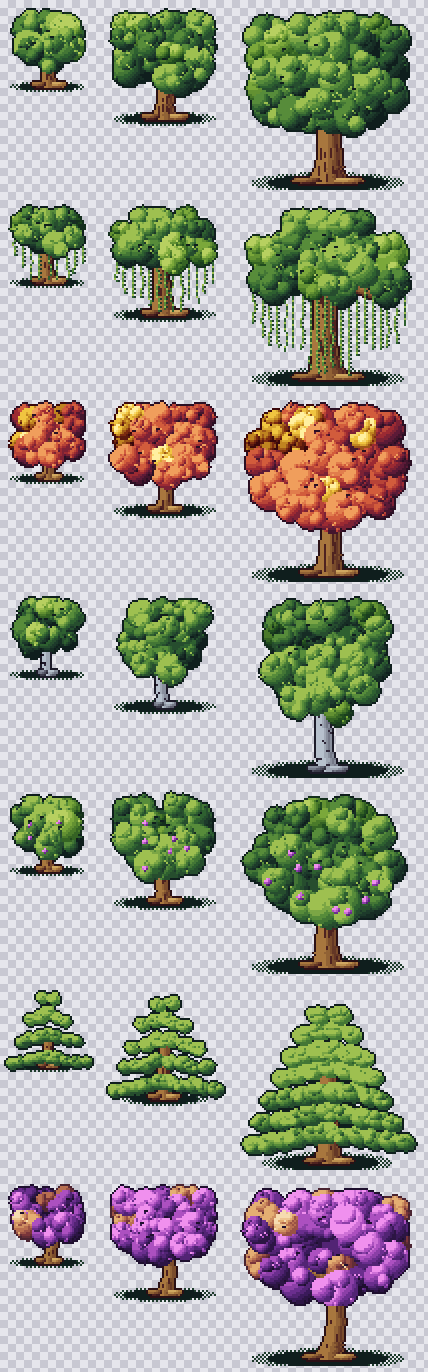
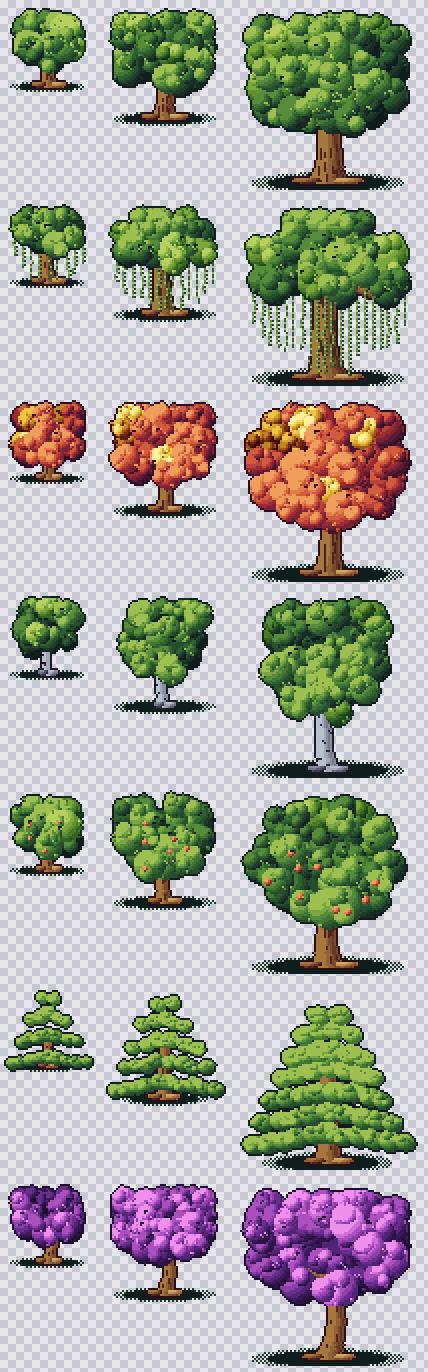
Foliage: pink sakura without orange, red fruit default, bare snowy winter trees

diff --git a/src/core/generators/foliage.ts b/src/core/generators/foliage.ts
@@ -43,18 +43,18 @@ function tint(species: Species, season: Season, leaf: Material): Tint {
   const winter = season === "winter";
   if (species === "pine-hd") return { main: leaf, alt: leaf === "foliage" ? "foliage" : leaf, deep: leaf, sparse: false, snow: winter };
   if (species === "sakura") {
-    if (winter) return { main: "stone", alt: "ui", deep: "wood", sparse: true, snow: true };
+    if (winter) return { main: "ui", alt: "stone", deep: "wood", sparse: true, snow: true };
     if (season === "fall") return { main: "cloth2", alt: "gold", deep: "roof", sparse: false, snow: false };
-    if (season === "spring") return { main: "accent", alt: "skin", deep: "accent", sparse: false, snow: false, specks: { mat: "skin", chance: 0.4 } };
-    return { main: "accent", alt: "skin", deep: "accent", sparse: false, snow: false, specks: { mat: "skin", chance: 0.3 } };
+    if (season === "spring") return { main: "accent", alt: "accent", deep: "accent", sparse: false, snow: false, specks: { mat: "ui", chance: 0.3 } };
+    return { main: "accent", alt: "accent", deep: "accent", sparse: false, snow: false, specks: { mat: "ui", chance: 0.25 } };
   }
   if (species === "maple-autumn") {
-    if (winter) return { main: "stone", alt: "ui", deep: "wood", sparse: true, snow: true };
+    if (winter) return { main: "ui", alt: "stone", deep: "wood", sparse: true, snow: true };
     if (season === "spring") return { main: alt, alt: "gold", deep: leaf, sparse: false, snow: false, specks: { mat: "roof", chance: 0.18 } };
     if (season === "summer") return { main: "cloth2", alt: "gold", deep: "roof", sparse: false, snow: false, specks: { mat: leaf, chance: 0.15 } };
     return { main: "cloth2", alt: "gold", deep: "roof", sparse: false, snow: false, specks: { mat: "roof", chance: 0.2 } };
   }
-  if (winter) return { main: "stone", alt: "ui", deep: "wood", sparse: true, snow: true };
+  if (winter) return { main: "ui", alt: "stone", deep: "wood", sparse: true, snow: true };
   if (season === "fall") return { main: "gold", alt: "cloth2", deep: "roof", sparse: false, snow: false, specks: { mat: "leather", chance: 0.15 } };
   if (season === "spring") return { main: alt, alt: leaf, deep: leaf, sparse: false, snow: false, specks: { mat: species === "birch" ? "gold" : "skin", chance: 0.22 } };
   return { main: leaf, alt, deep: leaf, sparse: false, snow: false };
@@ -149,9 +149,9 @@ function buildModel(species: Species, W: number, sizeIdx: number, season: Season
     const core = { x: fx * W, y: fy * W, rx: frx * W, ry: fry * W };
     model.core = core;
     let n = sp.n[sizeIdx];
-    if (t.sparse) n = Math.max(12, Math.round(n * 0.5));
+    if (t.sparse) n = Math.max(8, Math.round(n * 0.3));
     const area = Math.PI * core.rx * core.ry;
-    const baseR = sp.rK * (t.sparse ? 0.7 : 1) * Math.sqrt(area / (n * Math.PI));
+    const baseR = sp.rK * (t.sparse ? 0.55 : 1) * Math.sqrt(area / (n * Math.PI));
     const pts = scatter(r, n, core);
     const trunkW = Math.max(3, Math.round(sp.trunkW * W));
     model.trunk = { ...model.trunk, w: trunkW, top: Math.round(sp.trunkTop * W), lean: sp.lean * W, flare: species === "birch" ? 0.45 : 0.85 };
@@ -173,11 +173,11 @@ function buildModel(species: Species, W: number, sizeIdx: number, season: Season
     // the trunk forks into limbs that reach clusters on the way out
     const sorted = [...clusters.keys()].sort((a, b) => clusters[b].y - clusters[a].y);
     const fork = { x: cx + model.trunk.lean, y: model.trunk.top };
-    const picks = sorted.slice(0, Math.min(sorted.length, sp.branches + 6)).filter((_, i) => i % 2 === 0).slice(0, sp.branches);
+    const picks = sorted.slice(0, Math.min(sorted.length, sp.branches * 2 + 6)).filter((_, i) => t.sparse || i % 2 === 0).slice(0, t.sparse ? sp.branches * 2 : sp.branches);
     picks.sort((a, b) => clusters[a].x - clusters[b].x);
     for (const i of picks) {
       const c = clusters[i];
-      model.branches.push({ ax: fork.x, ay: fork.y + 1, bx: c.x, by: c.y + c.r * 0.5, r: Math.max(0.9, trunkW * (t.sparse ? 0.26 : 0.17)), to: i });
+      model.branches.push({ ax: fork.x, ay: fork.y + 1, bx: c.x, by: c.y + c.r * 0.5, r: Math.max(0.9, trunkW * (t.sparse ? 0.2 : 0.17)), to: i });
     }
     // dark pockets between clusters where the crown is deep
     const holeN = t.sparse ? 0 : Math.round(n / 4);
@@ -442,7 +442,7 @@ export const foliageGenerator: Generator = {
     { key: "size", label: "Size (48 / 64 / 96 px)", type: "select", options: [...FOLIAGE_SIZES], default: "medium" },
     { key: "season", label: "Season", type: "select", options: [...FOLIAGE_SEASONS], default: "summer" },
     { key: "leaf", label: "Leaf material", type: "material", options: ["foliage", "grass", "accent", "cloth2", "gold", "roof"], default: "foliage" },
-    { key: "accent", label: "Fruit / blossom", type: "material", default: "accent" },
+    { key: "accent", label: "Fruit / blossom", type: "material", default: "cloth2" },
     { key: "variant", label: "Variant", type: "number", min: 0, max: 9, step: 1, default: 0 },
   ],
   generate(p: Params, kit: StyleKit, seed: number) {
